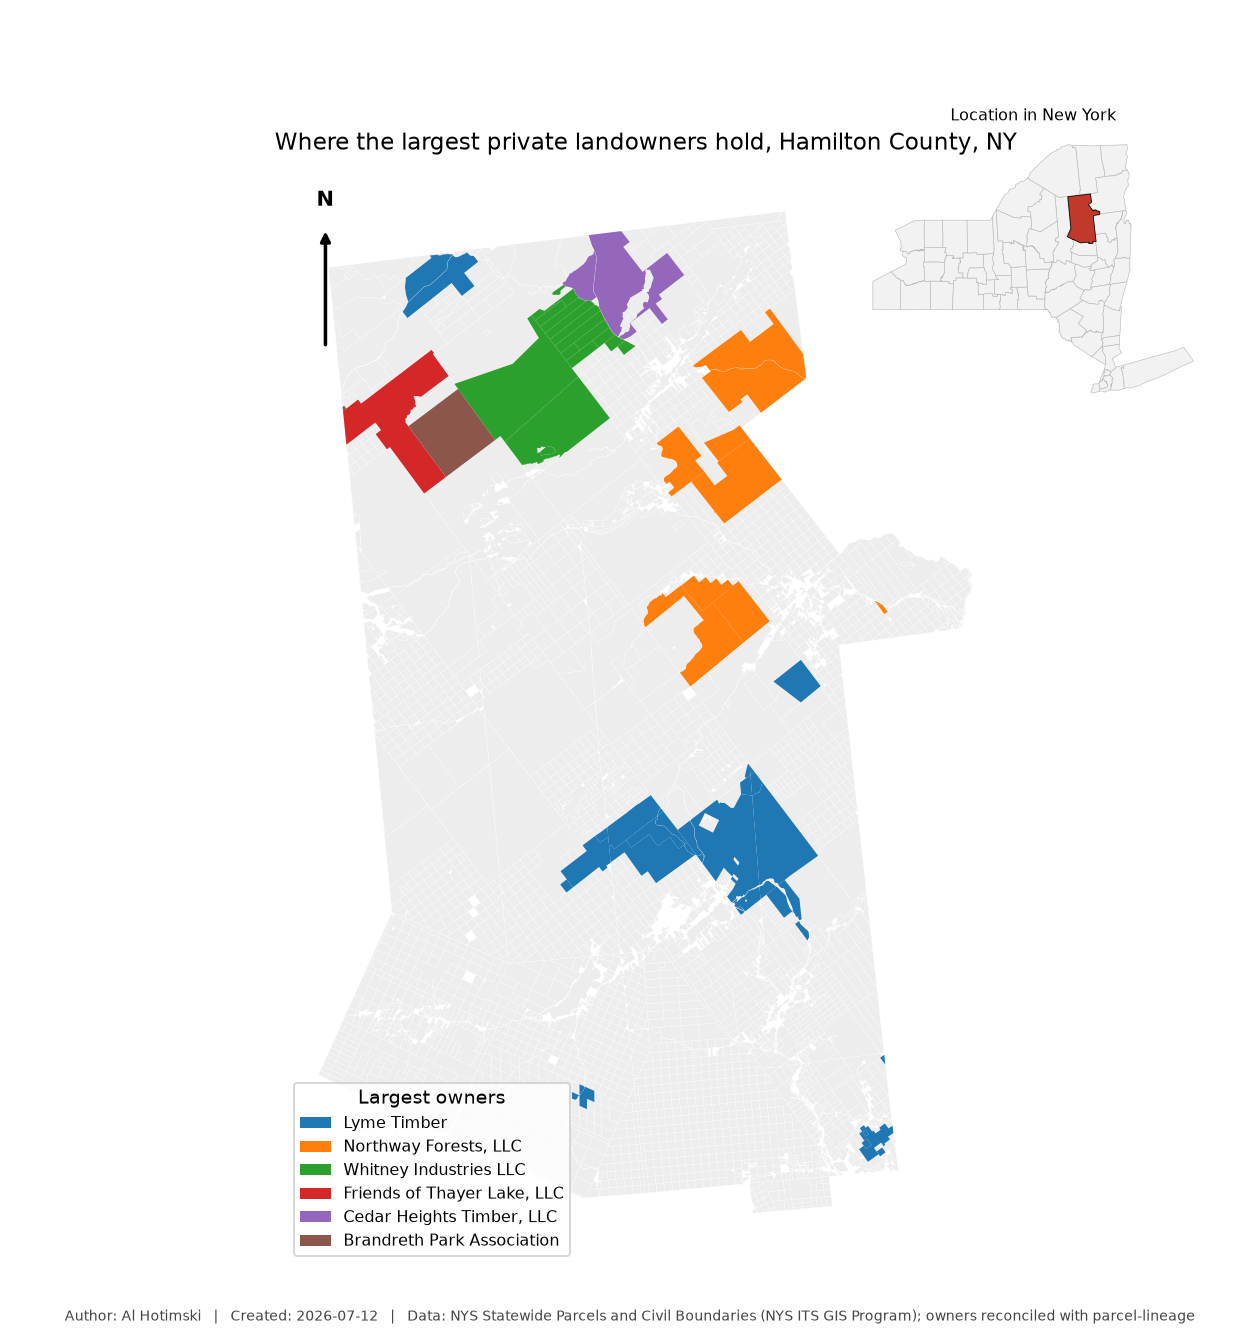
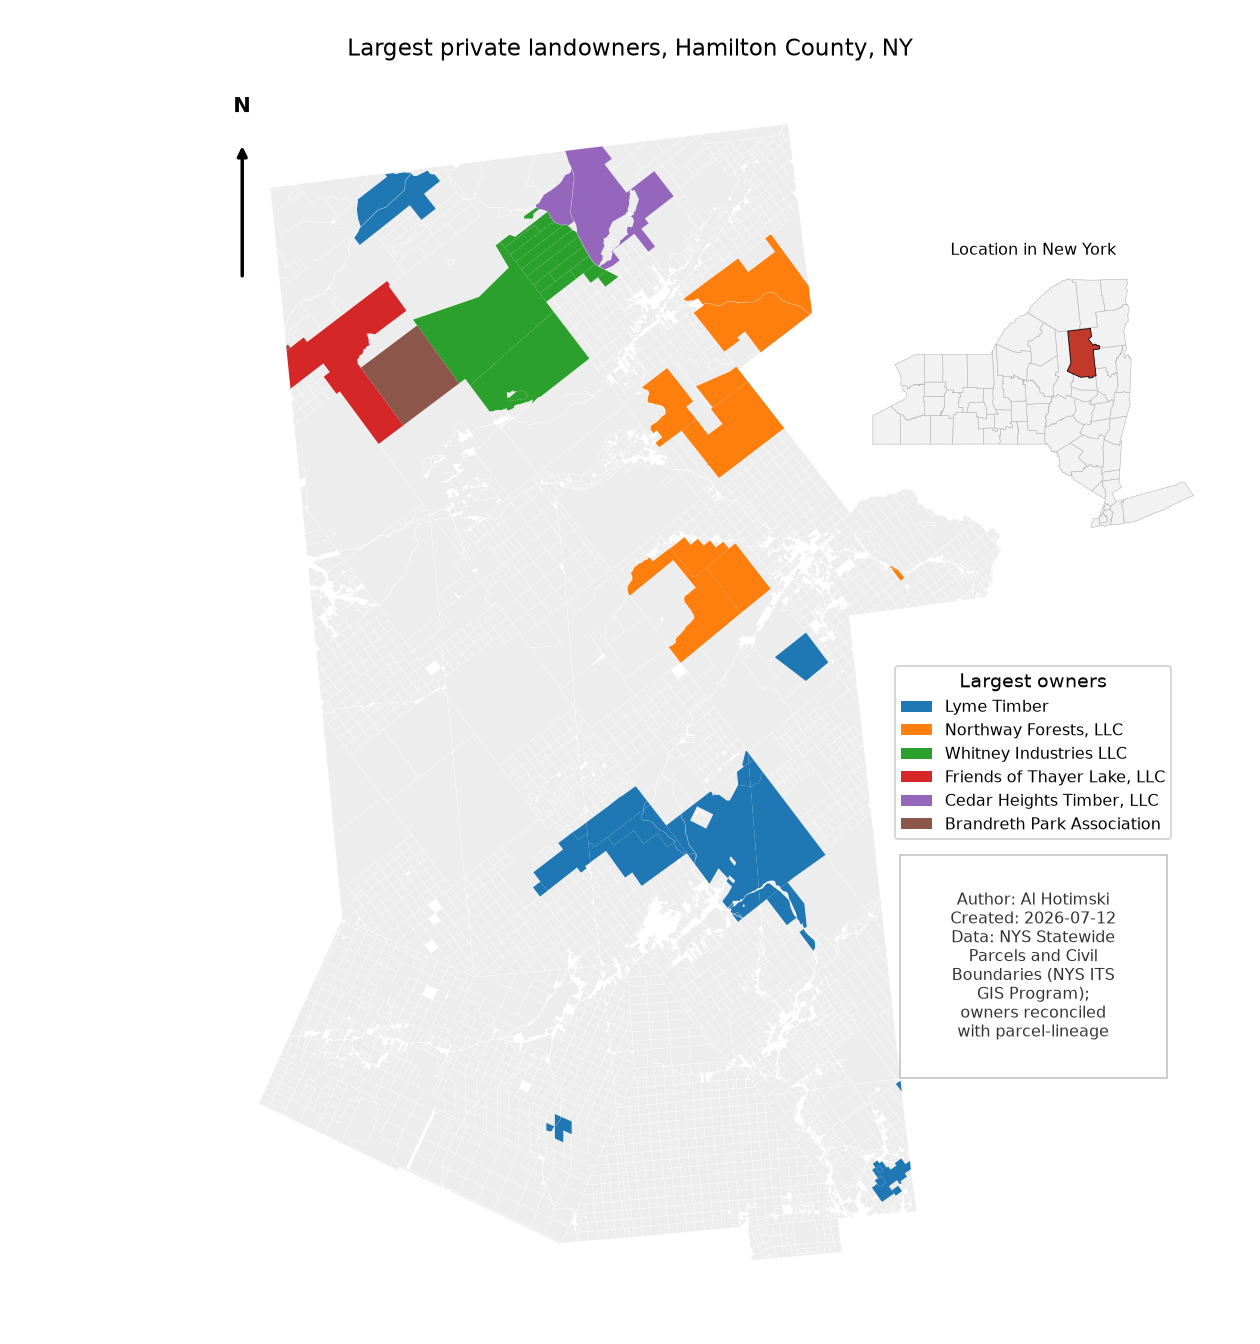
Refine ownership map layout: centered right-side furniture, tighter margins

diff --git a/src/parcel_lineage/viz.py b/src/parcel_lineage/viz.py
@@ -90,9 +90,9 @@ def plot_owner_map(
     author: str | None = None,
     sources: str | None = None,
     created: str | None = None,
-    north_arrow: tuple[float, float] = (0.055, 0.83),
-    locator_box: tuple[float, float, float, float] = (0.68, 0.66, 0.28, 0.28),
-    legend_loc: str = "lower left",
+    north_arrow: tuple[float, float] = (0.025, 0.83),
+    locator_box: tuple[float, float, float, float] = (0.68, 0.56, 0.28, 0.28),
+    legend_loc: str = "lower left", 
     footer_y: float = 0.015,
 ):
     """Map the parcels, coloring the largest owners and greying out the rest.
@@ -121,9 +121,6 @@ def plot_owner_map(
             subset.plot(ax=ax, color=cmap(i % 10), edgecolor="none", label=owner)
     ax.set_title(title)
     ax.set_axis_off()
-    ax.legend(  # type: ignore[call-overload]
-        loc=legend_loc, fontsize=8, title="Largest owners", frameon=True
-    )
     _north_arrow(ax, *north_arrow)
 
     if locator is not None:
@@ -133,11 +130,43 @@ def plot_owner_map(
             locator_focus.plot(ax=inset, color="#c0392b", edgecolor="black", linewidth=0.4)
         inset.set_axis_off()
         inset.set_title("Location in New York", fontsize=8)
+        # Legend centered under the locator box.
+        left, bottom, w, _ = locator_box
+        leg = ax.legend(
+            loc="upper center", bbox_to_anchor=(left + w / 2, bottom - 0.05),
+            bbox_transform=fig.transFigure, fontsize=8, title="Largest owners",
+            frameon=True,
+        )
+    else:
+        leg = ax.legend(  # type: ignore[call-overload]
+            loc=legend_loc, fontsize=8, title="Largest owners", frameon=True
+        )
 
     created = created or date.today().isoformat()
-    footer = f"Author: {author}   |   Created: {created}"
+    footer = f"Author: {author}    Created: {created}"
     if sources:
-        footer += f"   |   {sources}"
-    fig.text(0.5, footer_y, footer, ha="center", va="bottom", fontsize=7, color="#444444")
-    fig.subplots_adjust(bottom=0.06)
+        footer += f"    {sources.strip()}"
+
+    if locator is not None:
+        # Footnote in a box the same width as the legend, centered under it.
+        import textwrap
+
+        from matplotlib.patches import Rectangle
+
+        fig.canvas.draw()
+        lb = leg.get_window_extent().transformed(fig.transFigure.inverted())
+        n_chars = max(16, int(lb.width / 0.011))
+        wrapped = textwrap.fill(" ".join(footer.split()), width=n_chars)
+        box_h = (wrapped.count("\n") + 1) * 0.019 + 0.014
+        box_y = lb.y0 - 0.012 - box_h
+        fig.add_artist(Rectangle(
+            (lb.x0, box_y), lb.width, box_h, facecolor="white", edgecolor="#bfbfbf",
+            linewidth=0.8, transform=fig.transFigure, figure=fig,
+        ))
+        fig.text(lb.x0 + lb.width / 2, box_y + box_h / 2, wrapped,
+                 ha="center", va="center", fontsize=8, color="#333333")
+    else:
+        fig.text(0.5, footer_y, footer, ha="center", va="bottom", fontsize=9,
+                 color="#333333")
+    fig.subplots_adjust(left=0.01, right=0.99, top=0.95, bottom=0.02)
     return fig

diff --git a/examples/ny_timberland_plot.py b/examples/ny_timberland_plot.py
@@ -44,12 +44,12 @@ def main() -> None:
     owner_map = plot_owner_map(
         gdf,
         top[::-1],
-        title="Where the largest private landowners hold, Hamilton County, NY",
+        title="Largest private landowners, Hamilton County, NY",
         locator=counties,
         locator_focus=counties[counties["NAME"] == "Hamilton"],
         author="Al Hotimski",
         sources=(
-            "Data: NYS Statewide Parcels and Civil Boundaries (NYS ITS GIS Program); "
+            "\nData: NYS Statewide Parcels and Civil Boundaries (NYS ITS GIS Program); "
             "owners reconciled with parcel-lineage"
         ),
     )